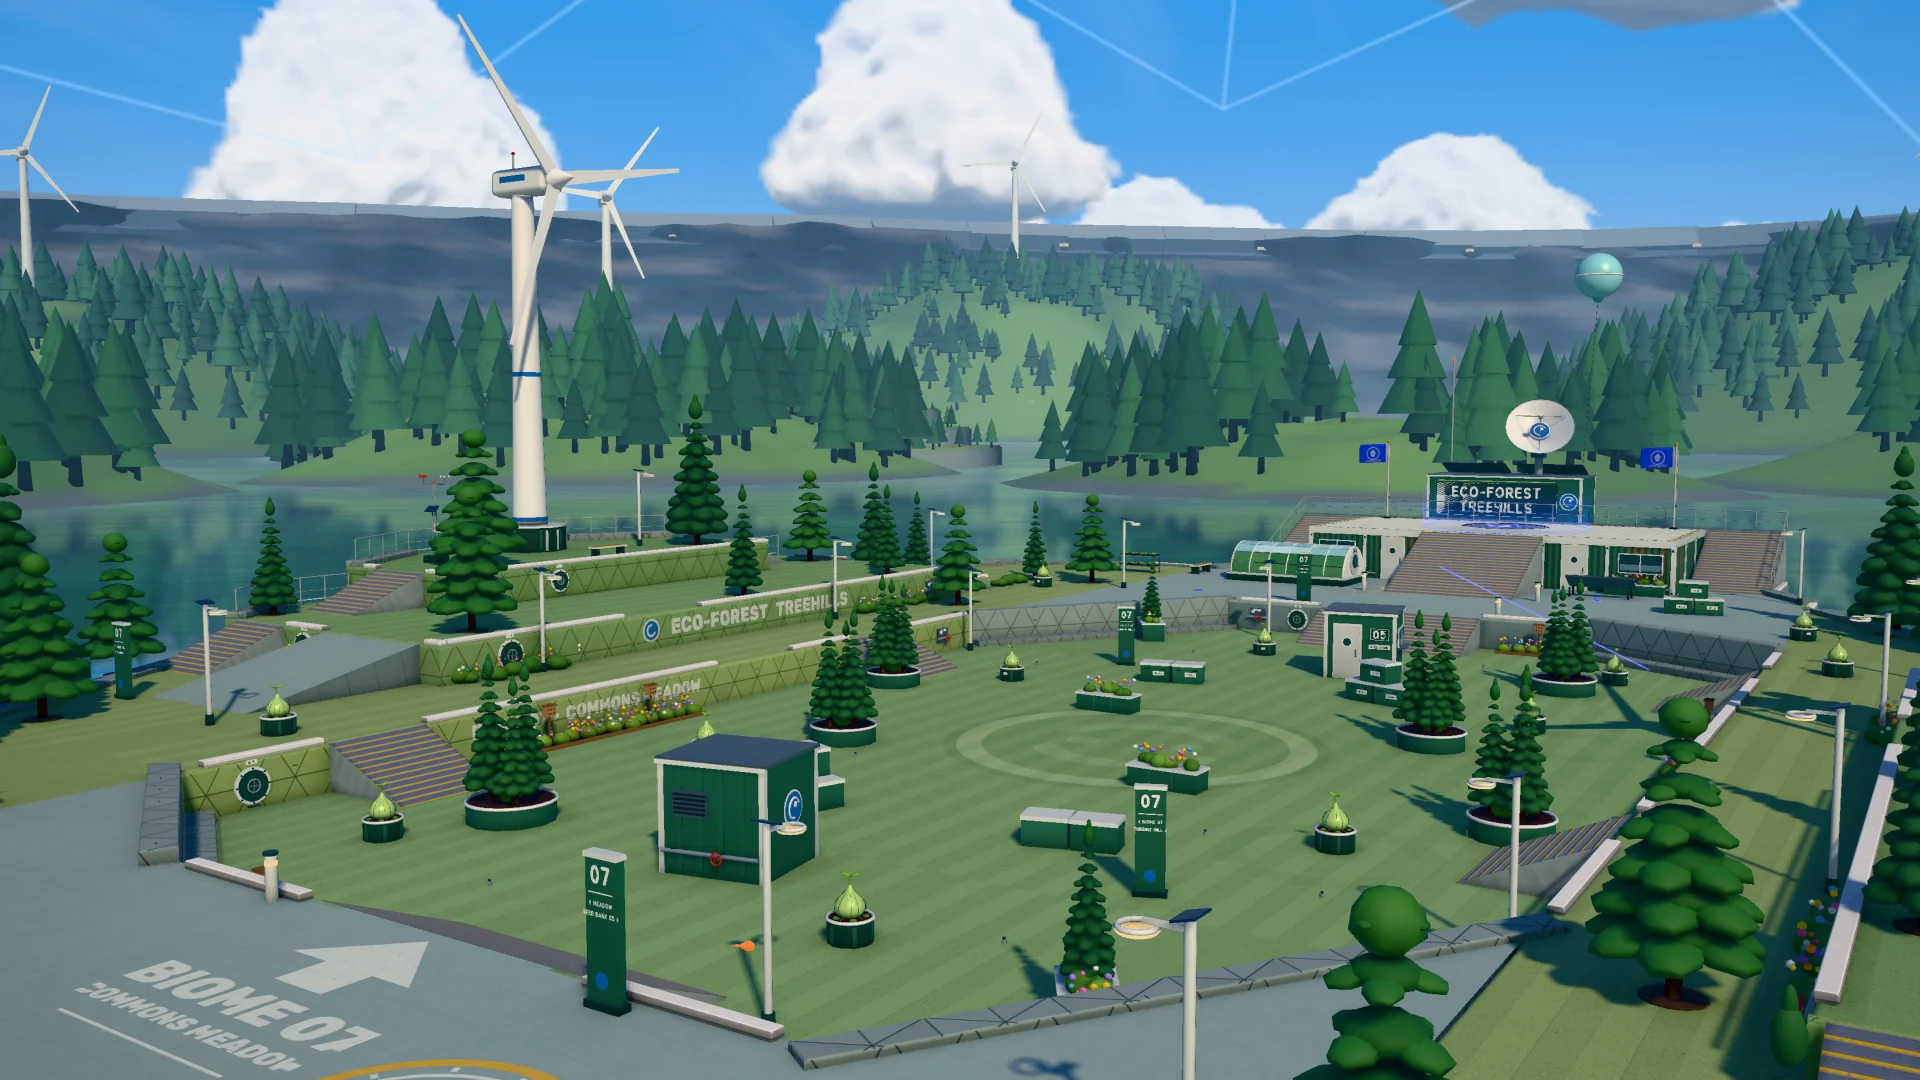
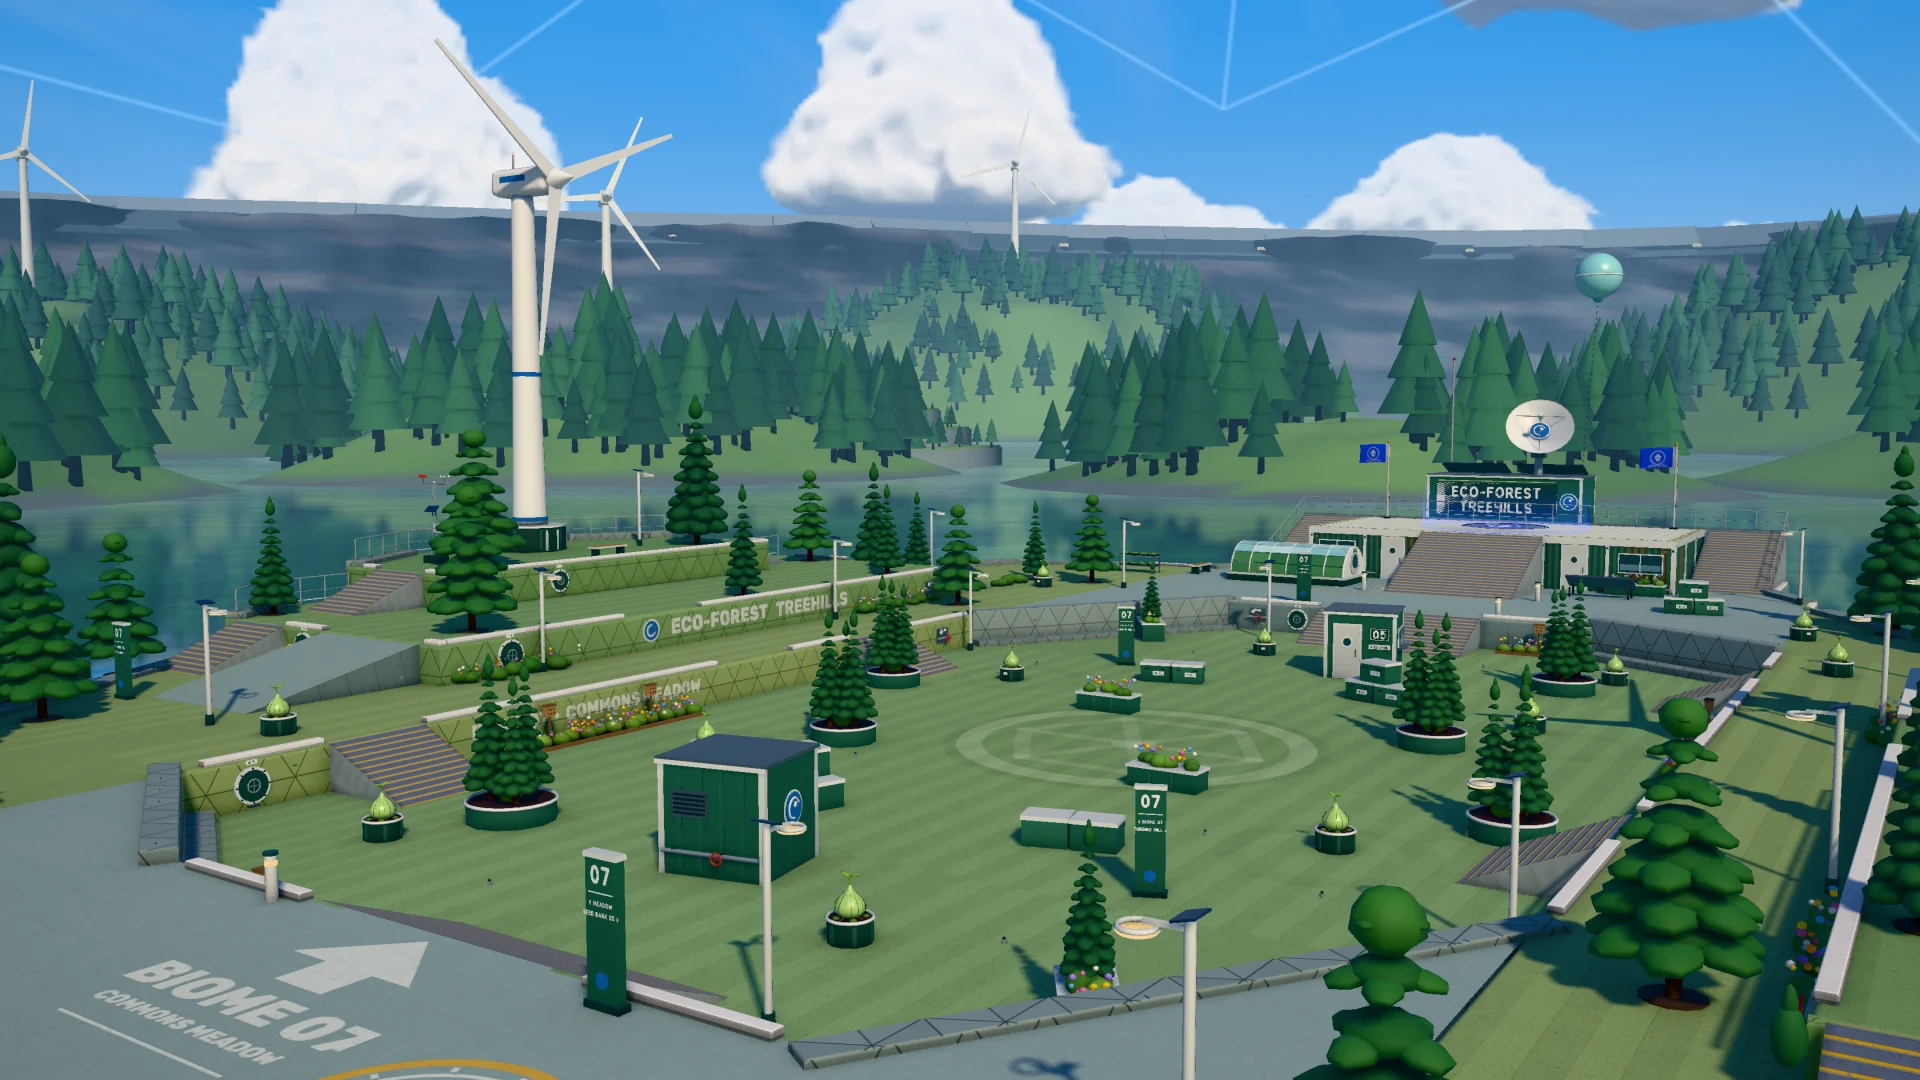
Eco-Forest Treehills: report pictures (tops per mode, art, spawn views day + dusk, mid, favourite spots, the plan), stage art re-rendered, the meadow's mown geodesic node, lit galleries in the cavern wall

diff --git a/src/world/stages/treehills/murals.js b/src/world/stages/treehills/murals.js
@@ -1,7 +1,8 @@
 // Eco-Forest Treehills — stage decals / signage for the mural atlas (mural ids 4…11; see src/world/murals.js). Drawn into
 // the stage region R of the atlas; each entry: its canvas rect, where it sits on its face (metres).
-//   emblem   the Commons Meadow's centre slab (30 × 28 m): the biome's round badge mown into the lawn (lighter and
-//            darker stripes in rings, the swirl), the mowers' turning circles round it (drawn 180°-symmetric)
+//   emblem   the Commons Meadow's centre slab (30 × 28 m): a ring mown into the lawn (lighter and darker stripes) with
+//            the dome's geodesic node inside (a hexagon of six triangles), the mowers' turning circles round it (drawn
+//            180°-symmetric, like the stage)
 //   sign     ECO-FOREST TREEHILLS in pale stencil along the tree-hill's upper retaining wall, facing the meadow
 //   label    the base terrace in front of the spawn stair: a painted floor label (BIOME 07, a big arrow to the meadow)
 //   pad      a landing-pad circle on the base terrace (the Tower Command goal sits on it)
@@ -20,9 +21,12 @@ export function drawMurals(g, R, kit) {
     ring(4.6, 5.4, 0.2);
     ring(5.4, 5.8, -0.12);
     ring(0, 4.6, -0.06);
-    // the swirl (the badge's mark): an arc and a dot, mown light, 180°-symmetric pair
-    g.lineCap = 'round'; g.strokeStyle = 'rgba(236,248,214,0.18)'; g.lineWidth = 0.9 * PPM;
-    for (const s of [0, Math.PI]) { g.beginPath(); g.arc(cx, cy, 2.7 * PPM, s + 0.3, s + 2.4); g.stroke(); g.fillStyle = 'rgba(236,248,214,0.18)'; g.beginPath(); g.arc(cx + Math.cos(s + 2.9) * 1.6 * PPM, cy + Math.sin(s + 2.9) * 1.6 * PPM, 0.55 * PPM, 0, Math.PI * 2); g.fill(); }
+    // the dome's geodesic node mown inside it: a hexagon of six triangles meeting at the centre (like the grid's nodes)
+    g.lineJoin = 'round'; g.lineCap = 'round'; g.strokeStyle = 'rgba(236,248,214,0.2)'; g.lineWidth = 0.5 * PPM;
+    const hx = (k) => [cx + Math.cos((k / 6) * Math.PI * 2) * 3.9 * PPM, cy + Math.sin((k / 6) * Math.PI * 2) * 3.9 * PPM];
+    g.beginPath(); for (let k = 0; k <= 6; k++) { const [px, py] = hx(k); if (k) g.lineTo(px, py); else g.moveTo(px, py); } g.stroke();
+    for (let k = 0; k < 3; k++) { const [ax, ay] = hx(k), [bx, by] = hx(k + 3); g.beginPath(); g.moveTo(ax, ay); g.lineTo(bx, by); g.stroke(); }
+    g.fillStyle = 'rgba(236,248,214,0.2)'; g.beginPath(); g.arc(cx, cy, 0.7 * PPM, 0, Math.PI * 2); g.fill();
     // mowers' turning circles: faint scuffs round the emblem and at the slab's ends
     g.strokeStyle = 'rgba(40,60,26,0.07)'; g.lineWidth = 0.7 * PPM;
     for (const [dx, dy, r] of [[-9, -8, 2.2], [9, 8, 2.2], [-11, 7, 1.8], [11, -7, 1.8]]) { g.beginPath(); g.arc(cx + dx * PPM, cy + dy * PPM, r * PPM, 0, Math.PI * 2); g.stroke(); }

diff --git a/src/world/stages/treehills/backdrop.js b/src/world/stages/treehills/backdrop.js
@@ -251,6 +251,14 @@ export function buildBackdrop(kit) {
     works.push(xf(box(5, 18, 1, '#eef6f6'), x - cx * 7, WATER_Y + 9, z - cz * 7, rot, -0.25));
     works.push(xf(sph(4, 8, 5, '#f4fbfb'), x - cx * 10, WATER_Y, z - cz * 10, 0, 0, 0, 1, 0.4, 1));
   }
+  // service galleries cut into the rock: a concrete balcony slab with a row of lit windows (glow at dusk), here and there
+  for (const [a0, a1, y] of [[40, 52, 46], [128, 136, 62], [168, 182, 38], [300, 311, 54], [340, 346, 70]]) {
+    for (let a = a0; a < a1; a += 0.7) {
+      const r = wallR(a * DEG) - 70 * Math.pow(y / RIM, 2) - 4, [x, z] = at(a, r), rot = -a * DEG + Math.PI / 2;
+      works.push(xf(box(12, 1.2, 5, '#a9aea7'), x, WATER_Y + y, z, rot));
+      works.push(xf(box(9, 3, 1, '#ffe7b8', 1), x + Math.cos(a * DEG) * 1.5, WATER_Y + y + 2.2, z + Math.sin(a * DEG) * 1.5, rot));
+    }
+  }
   out.plain.push(...works);
 
   // ---------------------------------------------------------------------------------------------- the dome's grid
